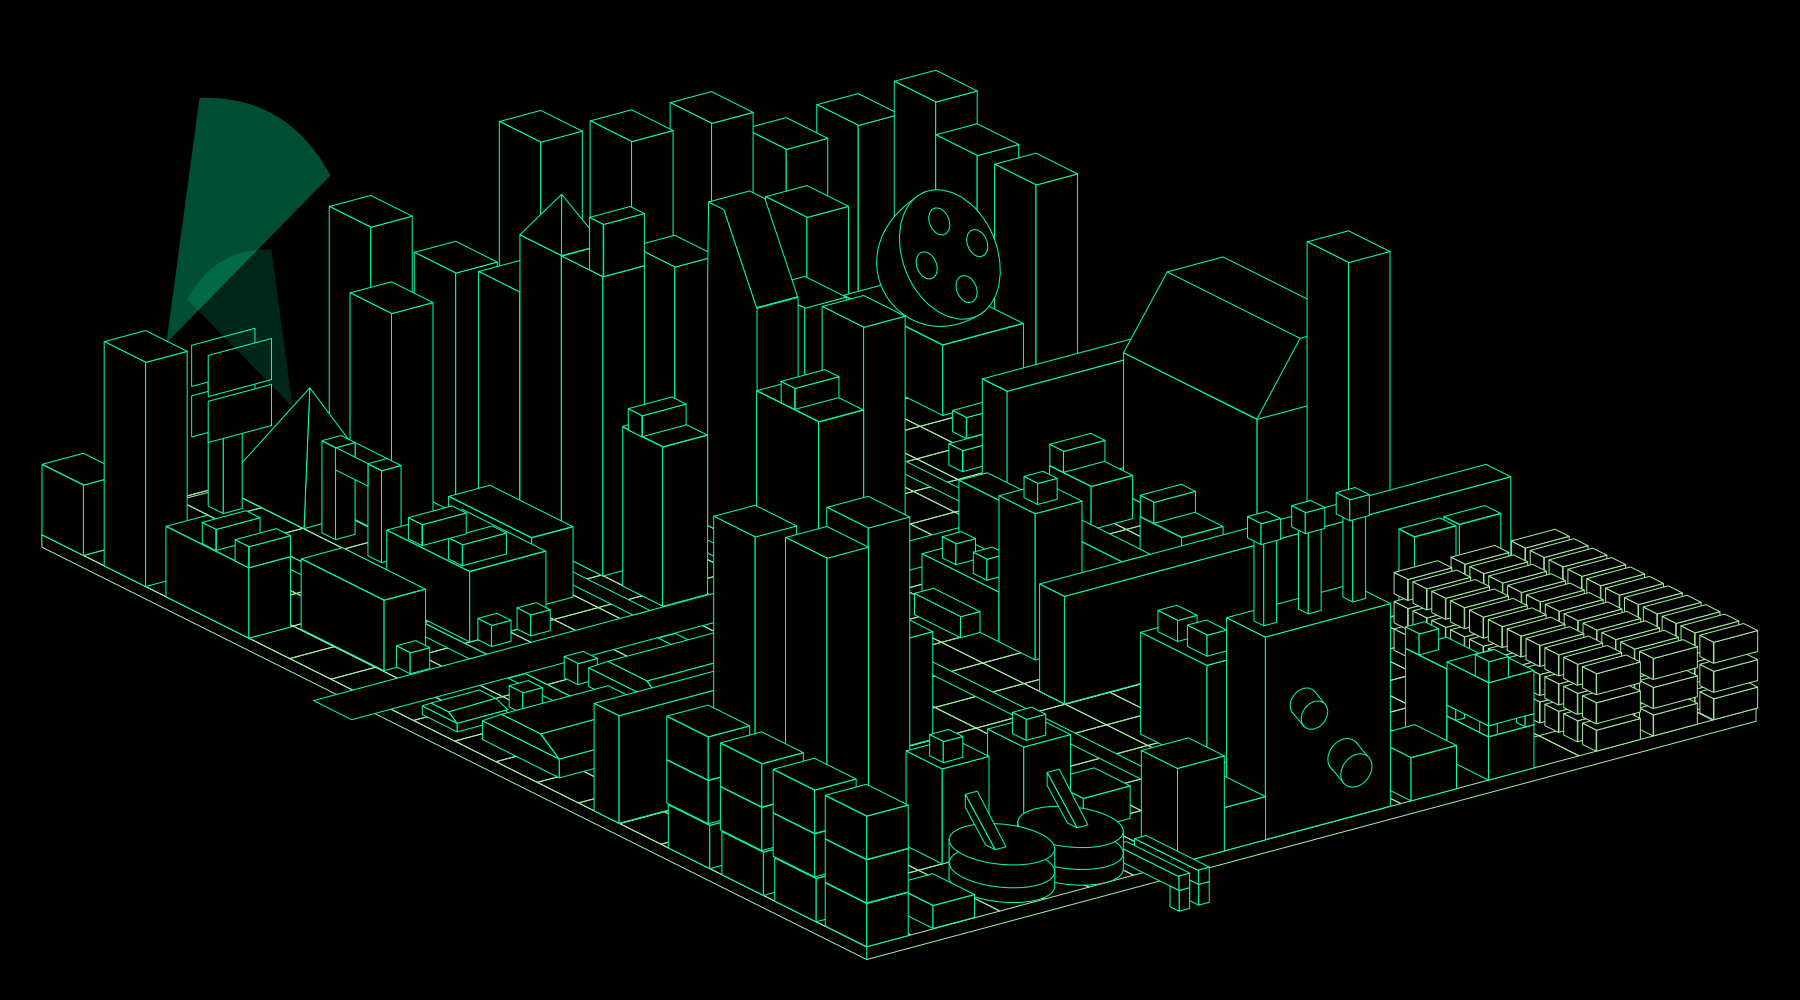
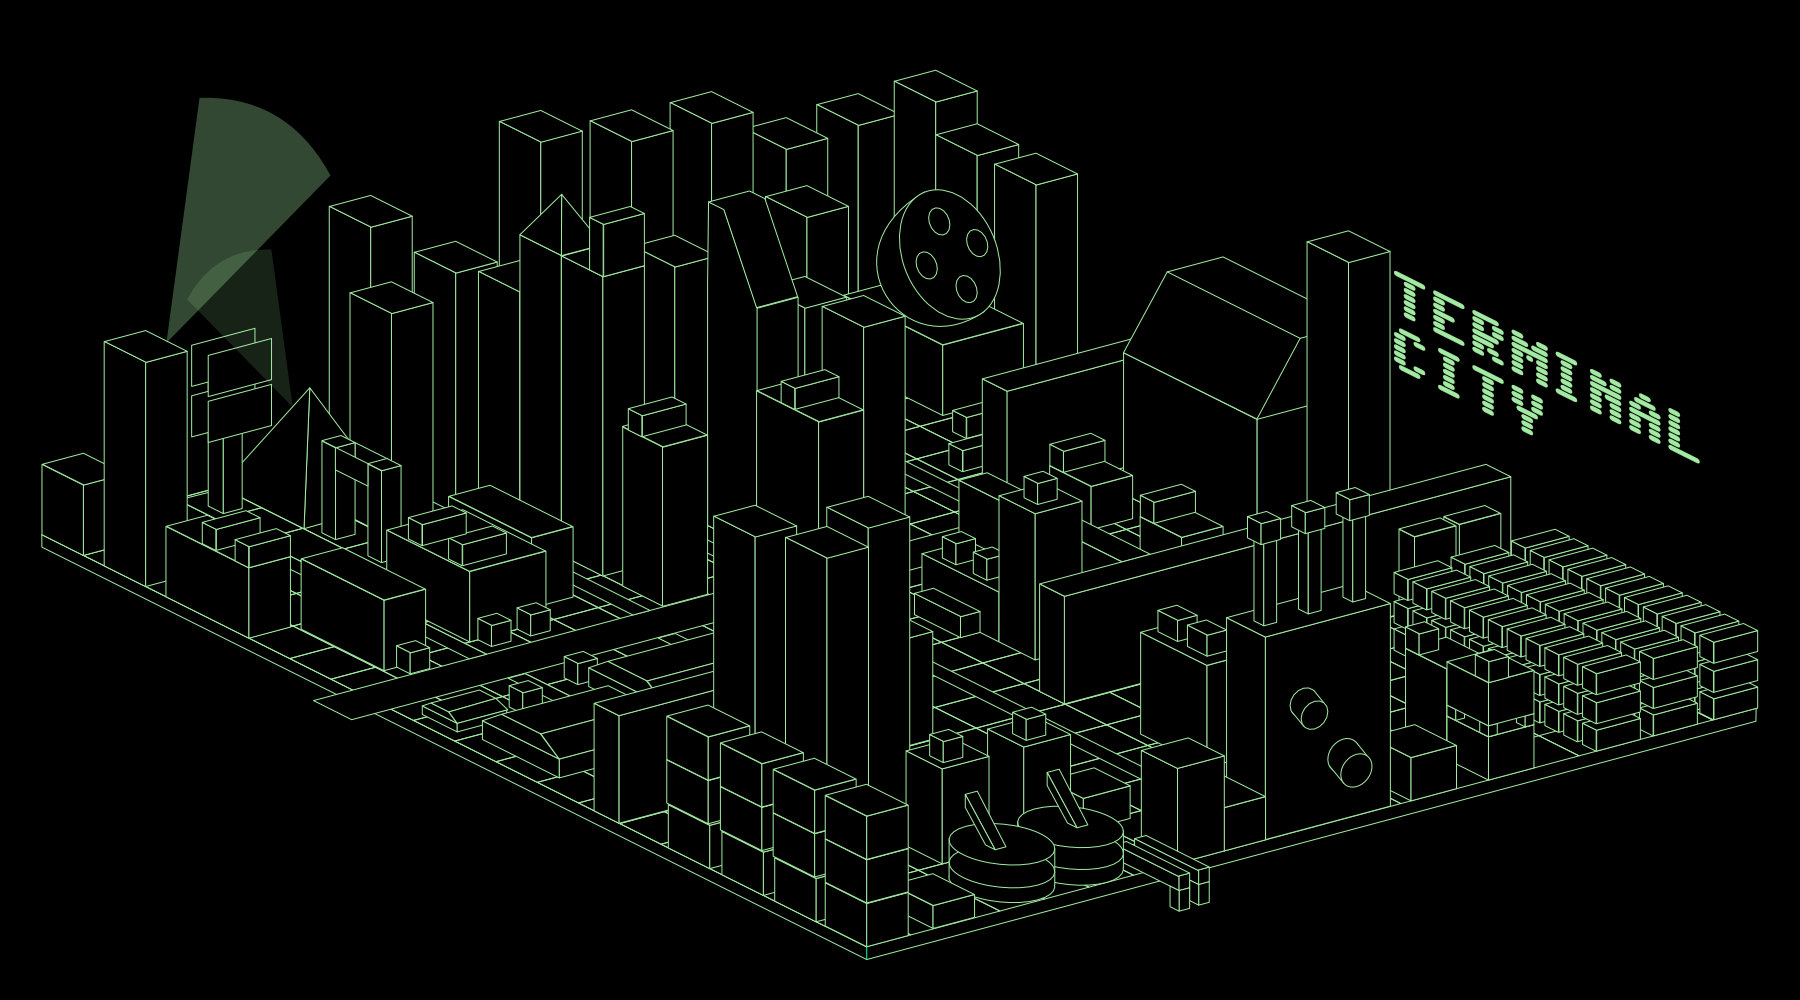
feat: Update CityMap component and styling; add margin to city map and adjust hotspot filter effect. add city name to city map image

diff --git a/src/CityMap.tsx b/src/CityMap.tsx
@@ -93,21 +93,12 @@ export default function CityMap() {
 
     ),
   },
-
-    
-
-
-     
-     
-
-
-
   ];
 
   return (
     <>
     <Tooltip id='city-tooltip' className='custom-tooltip'></Tooltip>
-      <svg viewBox=" 0 0 1800 1000">
+      <svg id='city-map' viewBox=" 0 0 1800 1000">
         <image href="../public/cityMap.png" width="1800" height="1000"></image>
         {hotspots.map((spot) => {
           return  <g transform="matrix(0.753961,0,0,0.753961,-55.9154,-97.0835)">{spot.hotspot}</g>

diff --git a/src/App.css b/src/App.css
@@ -1211,7 +1211,9 @@ ACTIVITY GRAPH
 
 
 
-
+#city-map{
+  margin-bottom:50px;
+}
 
 .hotspot{
   opacity: 0;
@@ -1220,9 +1222,8 @@ ACTIVITY GRAPH
 .hotspot:hover{
 fill: lightgreen;
 opacity: .5;
-filter: drop-shadow(0px -20px 10px rgb(181, 255, 181)) ;
+filter: drop-shadow(0px -20px 2px rgb(181, 255, 181)) ;
 cursor: pointer;
-
 }
 @keyframes newMessageFloat {
   50% {
